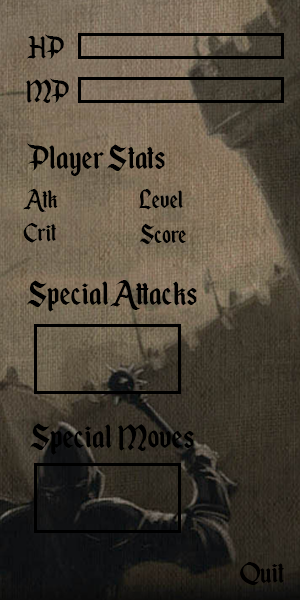
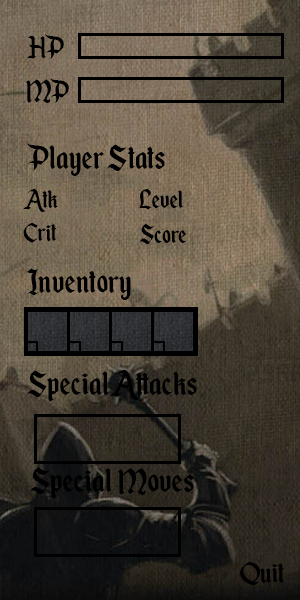
Inventário

Changed region(s): [[0.06, 0.45, 0.66, 0.87], [0.27, 0.84, 0.3, 0.87]]

diff --git a/parser.c b/parser.c
@@ -19,6 +19,8 @@ ESTADO inicializar(int nivel, int px, int py, int score, int vida, int mana, int
 	e.jog.vida=vida;
 	e.jog.mana=mana;
 	e.jog.atk=atk;
+	e.jog.item_vida=1;
+	e.jog.item_mana=1;
 	e.jog.crit=crit;
 	e.score = score;
 	e.range=0;
@@ -289,10 +291,8 @@ ESTADO catchItem(int item, ESTADO e){
 	if (item==0) e.score+=5;
 	else if (item==1) e.score+=10;
 	else if (item==2) e.score+=25;
-	else if (item==3 && e.jog.vida<=8) e.jog.vida+=2;
-	else if (item==3 && e.jog.vida>8) e.jog.vida=10;
-	else if (item==4 && e.jog.mana<=8) e.jog.mana+=2;
-	else if (item==4 && e.jog.mana>8) e.jog.mana=10;
+	else if (item==3) e.jog.item_vida+=1;
+	else if (item==4) e.jog.item_mana+=1;
 	else if (item==5) e.jog.atk+=1;
 	else if (item==6) e.jog.crit+=1;
 
@@ -514,8 +514,8 @@ void print_stats(ESTADO e){
 	for (i=0;i<e.jog.vida;i++) 
 		printf("<image x=%d y=36 width=20 height=20 xlink:href=\"%s\"/>\n", 600+81+20*i, VIDA); // Vida
 
-	for (i=0;i<e.jog.vida;i++) 
-		printf("<image x=%d y=80 width=20 height=20 xlink:href=\"%s\"/>\n", 600+81+20*i, MANA); // Mana     alterar
+	for (i=0;i<e.jog.mana;i++) 
+		printf("<image x=%d y=80 width=20 height=20 xlink:href=\"%s\"/>\n", 600+81+20*i, MANA); // Mana
 
 	printf("<text x=800 y=210 font-family=Verdana font-size=24 fill=white> %d </text> \n", e.nivel); // Nivel
 	printf("<text x=680 y=210 font-family=Verdana font-size=24 fill=white> %d </text> \n", e.jog.atk); // Ataque
@@ -532,6 +532,35 @@ void print_rangeMov(int px, int py, int tam){
 void print_rangeAttack (int px, int py, int tam){
 	 print_image(px, py, tam, RANGEATTACK);
 }
+
+
+void print_inventory(ESTADO e){
+	int i=0;
+	ESTADO newE=e;
+
+	if(e.jog.item_vida>0){
+		newE.jog.item_vida--;
+		if(newE.jog.vida<8) newE.jog.vida+=2;
+		else newE.jog.vida=10;
+		printf("<a xlink:href=\"http://127.0.0.1/cgi-bin/Rogue?%s\">\n", estado2str(newE));
+			printf("<image x=%d y=312 width=40 height=40 xlink:href=\"%s\"/>\n", 600+30+40*i, VIDADROP);
+		printf("</a>\n");	
+		printf("<text x=%d y=350 font-family=Verdana font-size=9 fill=white> %d </text> \n", 600+29+40*i, e.jog.item_vida);
+		i++;
+	}
+	newE=e;
+	if(e.jog.item_mana>0){
+		newE.jog.item_mana--;
+		if(newE.jog.mana<8) newE.jog.mana+=2;
+		else newE.jog.mana=10;
+		printf("<a xlink:href=\"http://127.0.0.1/cgi-bin/Rogue?%s\">\n", estado2str(newE));
+			printf("<image x=%d y=312 width=40 height=40 xlink:href=\"%s\"/>\n", 600+30+40*i, MANADROP);
+		printf("</a>\n");	
+		printf("<text x=%d y=350 font-family=Verdana font-size=9 fill=white> %d </text> \n", 600+29+2*i+40*i, e.jog.item_mana);
+		i++;
+	}
+}
+
 
 void print_board(){ 
 	int x, y;
@@ -562,6 +591,7 @@ void parser(){
 	if(e.jog.vida != 0) print_player(e);
 	print_wall(e);
 	print_menu();
+	print_inventory(e);
 	print_stats(e);
 	opcaoRange(e);
 	print_rangeEnemy(e);

diff --git a/estado.h b/estado.h
@@ -46,6 +46,8 @@ typedef struct playerState {
 	char mana;
 	char atk;
 	char crit;
+	char item_vida;
+	char item_mana;
 } PLAYER;
 
 /**
